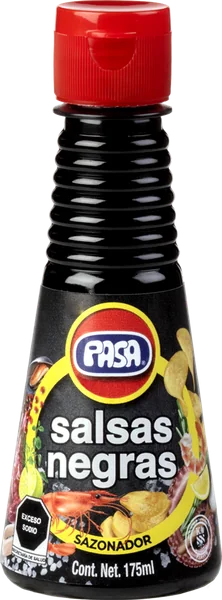
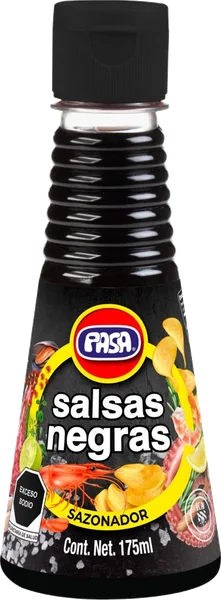
Actualización del sitio — 31/08/2026 19:30

diff --git a/productos.html b/productos.html
@@ -9,7 +9,7 @@
 <link rel="preconnect" href="https://fonts.googleapis.com" />
 <link rel="preconnect" href="https://fonts.gstatic.com" crossorigin />
 <link href="https://fonts.googleapis.com/css2?family=Karla:wght@400;600;700;800&family=Fraunces:ital,opsz,wght@0,9..144,600;0,9..144,800;0,9..144,900;1,9..144,700&display=swap" rel="stylesheet" />
-<link rel="stylesheet" href="styles.css?v=81" />
+<link rel="stylesheet" href="styles.css?v=82" />
 <style>
   /* ====== sub-nav sticky de categorías ====== */
   .catnav{position:sticky;top:var(--navh);z-index:80;background:rgba(250,247,240,.9);backdrop-filter:blur(14px);-webkit-backdrop-filter:blur(14px);border-bottom:1.5px solid var(--border)}
@@ -144,7 +144,7 @@
   <div class="wrap">
     <span class="crumbs">Inicio / Productos</span>
     <h1>Nuestra línea completa</h1>
-    <p class="lead">17 productos en cuatro familias. Toca cualquier producto para ver su detalle, presentaciones y usos recomendados.</p>
+    <p class="lead">19 productos en cuatro familias. Toca cualquier producto para ver su detalle, presentaciones y usos recomendados.</p>
   </div>
 </section>
 <svg class="wave" viewBox="0 0 1440 60" preserveAspectRatio="none" aria-hidden="true"><path d="M0,30 C240,60 480,0 720,20 C960,40 1200,10 1440,30 L1440,0 L0,0 Z" fill="#D3B87E"></path></svg>
@@ -154,7 +154,7 @@
   <div class="wrap inner">
     <a href="#vainillas"><span class="dot"></span>Vainillas <span class="c">4</span></a>
     <a href="#soyas"><span class="dot"></span>Soyas <span class="c">3</span></a>
-    <a href="#sazonadores"><span class="dot"></span>Sazonadores <span class="c">4</span></a>
+    <a href="#sazonadores"><span class="dot"></span>Sazonadores <span class="c">6</span></a>
     <a href="#aderezos"><span class="dot"></span>Aderezos <span class="c">6</span></a>
   </div>
 </div>
@@ -188,7 +188,7 @@
       <div class="t">
         <span class="k" style="color:var(--acento)"><i style="background:var(--arcilla)"></i>Línea 02</span>
         <h2>Soyas</h2>
-        <p>Elaboradas con ingredientes premium en tres versiones: natural, light con 45% menos sal y picante con chile habanero.</p>
+        <p>Elaboradas con ingredientes premium en tres versiones: natural, light con 45% menos sal y con limón.</p>
       </div>
       <div class="tally">03</div>
     </div>
@@ -196,7 +196,7 @@
     <div class="ficha-linea reveal">
       <svg viewBox="0 0 24 24" aria-hidden="true"><path d="M14 2H6a2 2 0 0 0-2 2v16a2 2 0 0 0 2 2h12a2 2 0 0 0 2-2V8z"/><path d="M14 2v6h6"/><path d="M16 13H8M16 17H8M10 9H8"/></svg>
       <p><b>Fichas técnicas de soyas</b><span>Ingredientes, tabla nutrimental, presentaciones, códigos de barras y certificaciones.</span><a class="ficha-mail" href="mailto:contactanos@pasa.com.mx">contactanos@pasa.com.mx</a></p>
-      <a class="btn ghost-dark" href="mailto:contactanos@pasa.com.mx?subject=Fichas%20t%C3%A9cnicas%20%E2%80%94%20Soyas&body=Buen%20d%C3%ADa%2C%20me%20interesa%20recibir%20las%20fichas%20t%C3%A9cnicas%20de%20la%20l%C3%ADnea%20de%20soyas%20%28salsas%20de%20soya%20natural%2C%20light%20y%20con%20habanero%29.%0A%0AProductos%20de%20inter%C3%A9s%3A%0A-%20%0A%0AEmpresa%3A%0ANombre%3A%0ATel%C3%A9fono%3A">Solicitar</a>
+      <a class="btn ghost-dark" href="mailto:contactanos@pasa.com.mx?subject=Fichas%20t%C3%A9cnicas%20%E2%80%94%20Soyas&body=Buen%20d%C3%ADa%2C%20me%20interesa%20recibir%20las%20fichas%20t%C3%A9cnicas%20de%20la%20l%C3%ADnea%20de%20soyas%20%28salsas%20de%20soya%20natural%2C%20light%20y%20lim%C3%B3n%29.%0A%0AProductos%20de%20inter%C3%A9s%3A%0A-%20%0A%0AEmpresa%3A%0ANombre%3A%0ATel%C3%A9fono%3A">Solicitar</a>
     </div>
   </div>
 </section>
@@ -211,7 +211,7 @@
         <h2>Sazonadores</h2>
         <p>El secreto detrás de los mejores platillos: salsas negras, sabor ostión, tipo inglesa y jugo sazonador bajo en sodio.</p>
       </div>
-      <div class="tally">04</div>
+      <div class="tally">06</div>
     </div>
     <div class="pgrid" data-cat="sazonadores"></div>
     <div class="ficha-linea reveal">
@@ -312,7 +312,7 @@
 
 <script src="https://cdn.jsdelivr.net/npm/gsap@3.12.5/dist/gsap.min.js"></script>
 <script src="https://cdn.jsdelivr.net/npm/gsap@3.12.5/dist/ScrollTrigger.min.js"></script>
-<script src="main.js?v=81"></script>
+<script src="main.js?v=82"></script>
 <script>
 /* =========================================================
    CATÁLOGO PASA — datos reales del sitio oficial
@@ -351,15 +351,25 @@ const CATALOGO = [
     desc:'Todo el sabor de nuestra soya con 45% menos sal. Ligera y equilibrada, sin sacrificar carácter ni profundidad.',
     sizes:['125 ml','250 ml','500 ml','1 L','3.8 L','20 L'],
     feats:['45% menos sal','Dietas bajas en sodio','Ensaladas y verduras al vapor'] },
-  { cat:'soyas', tone:'#DDBF8E', chip:'Soya', name:'Soya Picante con Habanero',
+  { cat:'soyas', tone:'#C9D6A8', chip:'Soya', name:'Soya Limón',
+    img:'assets/p-soya-limon.webp?r=1',
+    desc:'Salsa de soya con el toque cítrico del limón. El equilibrio entre el umami de la soya y la frescura del limón, listo para usar.',
+    sizes:['125 ml','250 ml','500 ml','1 L','3.8 L','20 L'],
+    feats:['Mariscos y ceviches','Botanas y micheladas','Ensaladas y verduras'] },
+
+  /* ---------- SAZONADORES ---------- */
+  { cat:'sazonadores', tone:'#DDBF8E', chip:'Sazonador', name:'Soya Picante con Habanero',
     img:'assets/p-soya-habanero.webp?r=2',
     desc:'Sazonador de soya con el toque bravo del chile habanero. Para quienes buscan umami y picor en un solo producto.',
     sizes:['125 ml','250 ml','500 ml','1 L','3.8 L','20 L'],
     feats:['Alitas y costillas glaseadas','Botanas y mariscos','Quien busca picor con sabor'] },
-
-  /* ---------- SAZONADORES ---------- */
+  { cat:'sazonadores', tone:'#E8B888', chip:'Sazonador', name:'Sazonador Picante Limón',
+    img:'assets/p-sazonador-picante-limon.webp?r=1',
+    desc:'Limón deshidratado y chile habanero en un sazonador listo para usar. El punto exacto entre lo cítrico y lo picante.',
+    sizes:['125 ml','250 ml','500 ml','1 L','3.8 L','20 L'],
+    feats:['Botanas, papas y frituras','Micheladas y cocteles','Mariscos y ceviches'] },
   { cat:'sazonadores', tone:'#AFC0C6', chip:'Sazonador', name:'Salsas Negras',
-    img:'assets/p-salsas-negras.webp?r=2',
+    img:'assets/p-salsas-negras.webp?r=3',
     desc:'Ideales para cocteleras, mariscos y platillos con carácter. Profundidad de sabor y color en cada gota.',
     sizes:['125 ml','250 ml','500 ml','1 L','3.8 L','20 L'],
     feats:['Cocteles de camarón y mariscos','Carnes y asados','Micheladas y botanas'] },

diff --git a/index.html b/index.html
@@ -13,7 +13,7 @@
 <link rel="preconnect" href="https://fonts.googleapis.com" />
 <link rel="preconnect" href="https://fonts.gstatic.com" crossorigin />
 <link href="https://fonts.googleapis.com/css2?family=Karla:wght@400;600;700;800&family=Fraunces:ital,opsz,wght@0,9..144,600;0,9..144,800;0,9..144,900;1,9..144,700&display=swap" rel="stylesheet" />
-<link rel="stylesheet" href="styles.css?v=81" />
+<link rel="stylesheet" href="styles.css?v=82" />
 <style>
   /* ===== HERO HOME ===== */
   /* fondo sobrio: crema cálido con un velo de arena.
@@ -273,11 +273,11 @@
         </div>
       </a>
       <a class="pcard reveal" href="productos.html#sazonadores" style="--tone:#AFC0C6">
-        <div class="pc-media"><img nopin="nopin" class="pc-bottle" src="assets/p-salsas-negras.webp?r=2" alt="Salsas Negras PASA" loading="lazy" /></div>
+        <div class="pc-media"><img nopin="nopin" class="pc-bottle" src="assets/p-salsas-negras.webp?r=3" alt="Salsas Negras PASA" loading="lazy" /></div>
         <div class="pc-txt">
-          <span class="pc-k">04 sazonadores</span>
+          <span class="pc-k">06 sazonadores</span>
           <h3>Sazonadores</h3>
-          <p>Salsas negras, ostión, tipo inglesa y jugo sazonador.</p>
+          <p>Salsas negras, ostión, tipo inglesa, jugo sazonador y picantes.</p>
           <span class="pc-go">Ver línea <em>→</em></span>
         </div>
       </a>
@@ -418,7 +418,7 @@
 
 <script src="https://cdn.jsdelivr.net/npm/gsap@3.12.5/dist/gsap.min.js"></script>
 <script src="https://cdn.jsdelivr.net/npm/gsap@3.12.5/dist/ScrollTrigger.min.js"></script>
-<script src="main.js?v=81"></script>
+<script src="main.js?v=82"></script>
 <script>
 /* ================= QUIZ ¿QUÉ SABOR ERES? ================= */
 (function(){
@@ -456,7 +456,7 @@
       desc:'Clásico y apreciado por todos: el sabor más popular del mundo, originario de México. Ideal para la repostería.' },
     soya: { name:'Salsa de Soya PASA', img:'assets/p-soya-natural.webp?r=2',
       desc:'Intensa y versátil: aporta umami a cada platillo, del arroz frito al marinado perfecto.' },
-    sazonador: { name:'Salsas Negras PASA', img:'assets/p-salsas-negras.webp?r=2',
+    sazonador: { name:'Salsas Negras PASA', img:'assets/p-salsas-negras.webp?r=3',
       desc:'Carácter y profundidad: el secreto detrás de los mejores asados y platillos con personalidad.' },
     aderezo: { name:'Aderezo Frambuesa & Jamaica', img:'assets/p-ad-frambuesa.webp?r=2',
       desc:'Fresco y original: convierte lo cotidiano en una experiencia gourmet con un toque distintivo.' }

diff --git a/recetas.html b/recetas.html
@@ -9,7 +9,7 @@
 <link rel="preconnect" href="https://fonts.googleapis.com" />
 <link rel="preconnect" href="https://fonts.gstatic.com" crossorigin />
 <link href="https://fonts.googleapis.com/css2?family=Karla:wght@400;600;700;800&family=Fraunces:ital,opsz,wght@0,9..144,600;0,9..144,800;0,9..144,900;1,9..144,700&display=swap" rel="stylesheet" />
-<link rel="stylesheet" href="styles.css?v=81" />
+<link rel="stylesheet" href="styles.css?v=82" />
 <style>
   /* cada receta en su propia franja, separadas por la misma onda del hero */
   .recipes{background:var(--crema)}
@@ -143,7 +143,7 @@
     <div class="recipe reveal">
       <div class="r-visual">
         <img nopin="nopin" class="main" src="assets/scene-carne.webp" alt="Corte de carne asada en tabla" loading="lazy" />
-        <img nopin="nopin" class="prod" src="assets/p-salsas-negras.webp?r=2" alt="" aria-hidden="true" />
+        <img nopin="nopin" class="prod" src="assets/p-salsas-negras.webp?r=3" alt="" aria-hidden="true" />
       </div>
       <div class="r-copy">
         <span class="num">03 · CARNES &amp; ASADOS</span>
@@ -232,6 +232,6 @@
 
 <script src="https://cdn.jsdelivr.net/npm/gsap@3.12.5/dist/gsap.min.js"></script>
 <script src="https://cdn.jsdelivr.net/npm/gsap@3.12.5/dist/ScrollTrigger.min.js"></script>
-<script src="main.js?v=81"></script>
+<script src="main.js?v=82"></script>
 </body>
 </html>

diff --git a/nosotros.html b/nosotros.html
@@ -9,7 +9,7 @@
 <link rel="preconnect" href="https://fonts.googleapis.com" />
 <link rel="preconnect" href="https://fonts.gstatic.com" crossorigin />
 <link href="https://fonts.googleapis.com/css2?family=Karla:wght@400;600;700;800&family=Fraunces:ital,opsz,wght@0,9..144,600;0,9..144,800;0,9..144,900;1,9..144,700&display=swap" rel="stylesheet" />
-<link rel="stylesheet" href="styles.css?v=81" />
+<link rel="stylesheet" href="styles.css?v=82" />
 <style>
   .story{background:var(--crema)}
   .story-grid{display:grid;grid-template-columns:1.1fr 1fr;gap:clamp(2rem,5vw,4.5rem);align-items:center;position:relative;z-index:1}
@@ -250,6 +250,6 @@
 
 <script src="https://cdn.jsdelivr.net/npm/gsap@3.12.5/dist/gsap.min.js"></script>
 <script src="https://cdn.jsdelivr.net/npm/gsap@3.12.5/dist/ScrollTrigger.min.js"></script>
-<script src="main.js?v=81"></script>
+<script src="main.js?v=82"></script>
 </body>
 </html>

diff --git a/contacto.html b/contacto.html
@@ -9,7 +9,7 @@
 <link rel="preconnect" href="https://fonts.googleapis.com" />
 <link rel="preconnect" href="https://fonts.gstatic.com" crossorigin />
 <link href="https://fonts.googleapis.com/css2?family=Karla:wght@400;600;700;800&family=Fraunces:ital,opsz,wght@0,9..144,600;0,9..144,800;0,9..144,900;1,9..144,700&display=swap" rel="stylesheet" />
-<link rel="stylesheet" href="styles.css?v=81" />
+<link rel="stylesheet" href="styles.css?v=82" />
 <style>
   .contact-sec{background:var(--crema)}
   .contact-info h2{font-size:clamp(1.9rem,3.8vw,2.7rem);margin:.9rem 0 1rem}
@@ -189,6 +189,6 @@
 
 <script src="https://cdn.jsdelivr.net/npm/gsap@3.12.5/dist/gsap.min.js"></script>
 <script src="https://cdn.jsdelivr.net/npm/gsap@3.12.5/dist/ScrollTrigger.min.js"></script>
-<script src="main.js?v=81"></script>
+<script src="main.js?v=82"></script>
 </body>
 </html>

diff --git a/LEEME.md b/LEEME.md
@@ -1,0 +1,50 @@
+# Sitio web PASA — Panamericana Abarrotera
+
+Sitio estático: HTML, CSS y JavaScript puros. Sin build, sin dependencias,
+sin servidor de aplicaciones. Se abre con doble clic o se sube tal cual.
+
+## Archivos
+
+    index.html        Inicio
+    nosotros.html     Historia de la empresa
+    productos.html    Catálogo (17 productos, modal de detalle)
+    recetas.html      Ideas de uso por línea
+    contacto.html     Teléfono, WhatsApp y preguntas frecuentes
+
+    styles.css        Hoja de estilos compartida
+    main.js           Navegación, animaciones y efecto 3D
+    assets/           Logo, fotos de producto y escenas (WebP)
+
+    robots.txt        Permite la indexación de Google
+    sitemap.xml       Lista de páginas para buscadores
+    _headers          Reglas de caché (solo Cloudflare Pages)
+    publicar.sh       Script de publicación
+
+## Probar en local
+
+    open index.html
+
+## Publicar
+
+En Cloudflare Pages:
+
+    ./publicar.sh
+
+En un servidor propio (FTP / cPanel): sube todo el contenido de esta
+carpeta a `public_html`. En Apache, el archivo `_headers` no aplica;
+sus reglas de caché se configuran con `.htaccess`.
+
+## Notas de mantenimiento
+
+- Los productos se editan en el arreglo `CATALOGO` dentro de `productos.html`.
+- Al cambiar `styles.css` o `main.js`, sube el número de `?v=` en las cinco
+  páginas para que el navegador no sirva la versión anterior.
+- Las imágenes de producto son WebP con fondo transparente, recortadas al
+  contorno de la botella para que todas se vean del mismo tamaño.
+- No se usa `filter: drop-shadow()` sobre imágenes con transparencia:
+  combinado con `object-fit`, Safari en iOS pinta el rectángulo completo.
+
+## Dominio y SEO
+
+`sitemap.xml` y las etiquetas canónicas apuntan a `https://pasa.com.mx/`.
+Si el sitio queda en otra dirección, hay que actualizarlos.
